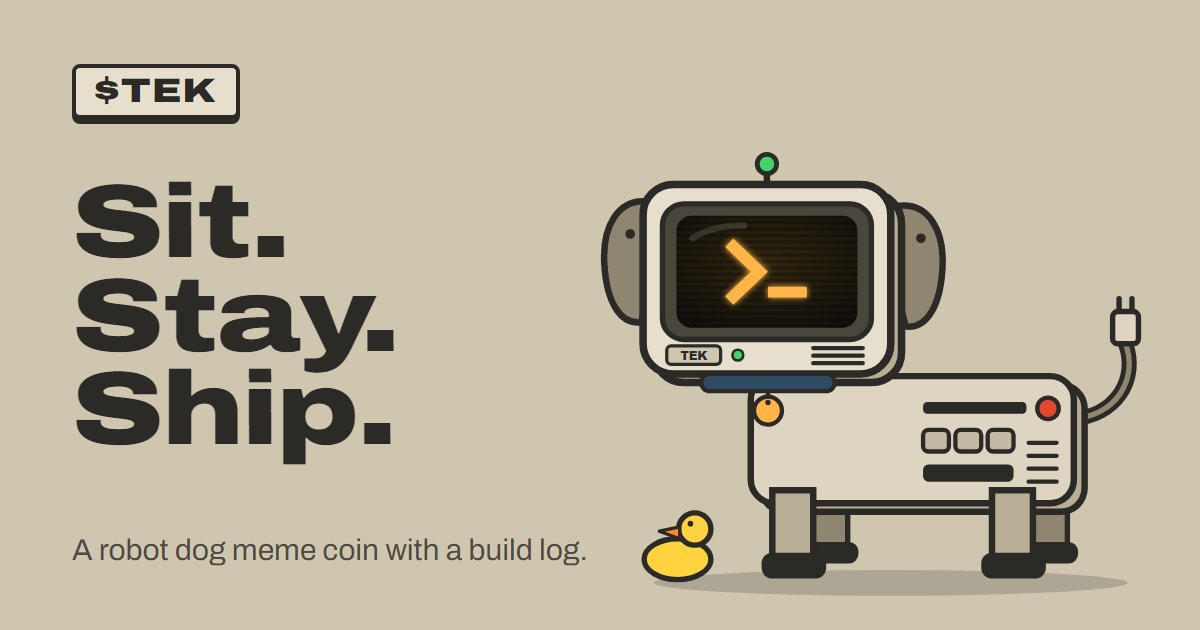
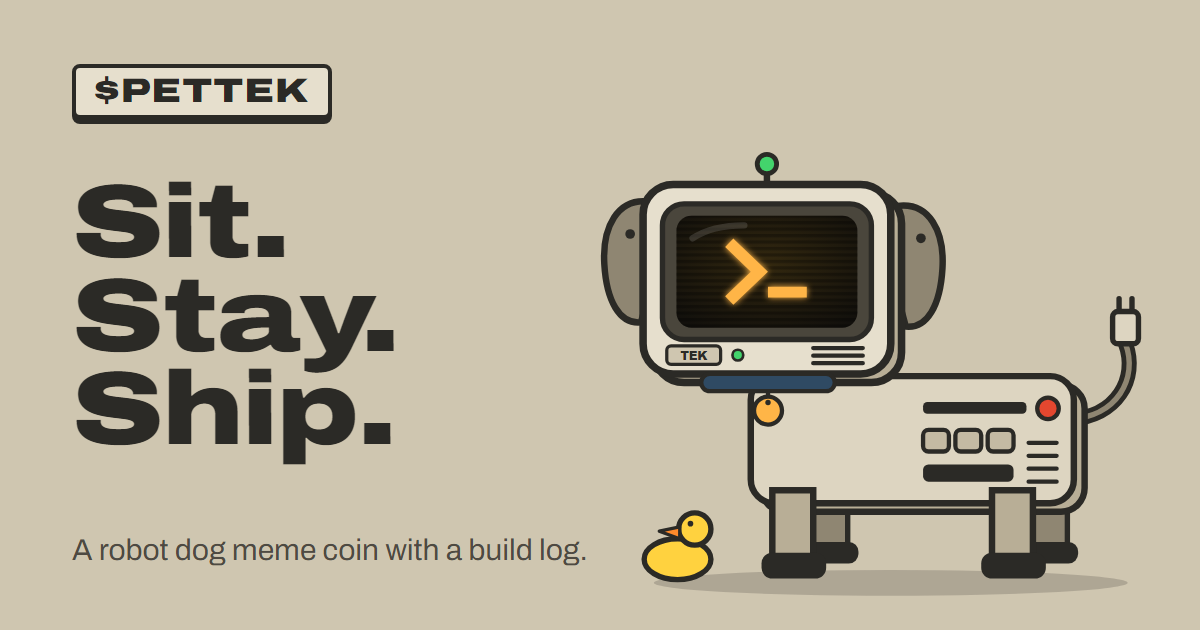
Rename the coin to PetTek ($PETTEK)
TEK stays as the robot dog's name; the coin, ticker and token copy use
PetTek / PETTEK. The link card is regenerated with the new ticker badge.

Changed region(s): [[0.0925, 0.0905, 0.2775, 0.2111]]

diff --git a/index.html b/index.html
@@ -3,9 +3,9 @@
 <head>
 <meta charset="utf-8">
 <meta name="viewport" content="width=device-width, initial-scale=1">
-<title>TEK — sit. stay. ship.</title>
-<meta name="description" content="TEK is a robot dog and a Solana meme coin with a build log. It fetches, it ships, and it isn't allowed on the rug.">
-<meta property="og:title" content="TEK — sit. stay. ship.">
+<title>PetTek — sit. stay. ship.</title>
+<meta name="description" content="PetTek ($PETTEK) is a Solana meme coin starring TEK, a robot dog with a build log. It fetches, it ships, and it isn't allowed on the rug.">
+<meta property="og:title" content="PetTek ($PETTEK) — sit. stay. ship.">
 <meta property="og:description" content="A robot dog meme coin with a build log. Make a TEK meme, run the checks, read the changelog.">
 <meta property="og:image" content="https://tek.gimmiepets.com/og-image.png">
 <meta property="og:url" content="https://tek.gimmiepets.com/">
@@ -238,7 +238,7 @@ p { margin: 0 0 1rem; max-width: var(--measure); }
 
 <header class="top">
   <div class="wrap">
-    <a class="badge" href="#top" aria-label="TEK home">TEK</a>
+    <a class="badge" href="#top" aria-label="PetTek home">PetTek</a>
     <nav aria-label="Sections">
       <a href="#lore">Lore</a>
       <a href="#screen">Make a meme</a>
@@ -256,7 +256,7 @@ p { margin: 0 0 1rem; max-width: var(--measure); }
   <div class="wrap">
     <div>
       <h1>Sit. Stay. Ship.</h1>
-      <p class="lede">TEK is a robot dog and a Solana meme coin with a build log. It fetches, it ships, and it isn't allowed on the rug.</p>
+      <p class="lede">TEK is a robot dog, and $PETTEK is its Solana meme coin with a build log. TEK fetches, ships, and isn't allowed on the rug.</p>
 
       <div class="slot">
         <span class="slot-label" id="ca-label">Contract address</span>
@@ -366,9 +366,9 @@ p { margin: 0 0 1rem; max-width: var(--measure); }
       <p class="sub">Everything about the token, on one tag. No presale, no team allocation, no tax.</p>
     </div>
     <div class="label" role="group" aria-label="Token details">
-      <div class="label-head"><strong>TEK-01</strong><span>Solana SPL token</span></div>
+      <div class="label-head"><strong>PetTek</strong><span>Solana SPL token</span></div>
       <dl>
-        <dt>Ticker</dt><dd data-ticker>$TEK</dd>
+        <dt>Ticker</dt><dd data-ticker>$PETTEK</dd>
         <dt>Supply</dt><dd>1,000,000,000</dd>
         <dt>Launch</dt><dd>Fair launch on pump.fun. Everyone buys from the same curve.</dd>
         <dt>Presale</dt><dd>None</dd>
@@ -402,12 +402,12 @@ p { margin: 0 0 1rem; max-width: var(--measure); }
 <section class="panel" id="buy">
   <div class="wrap">
     <h2>How to buy</h2>
-    <p class="sub">Four steps. Nobody from TEK will ever ask for your seed phrase or DM you first.</p>
+    <p class="sub">Four steps. Nobody from PetTek will ever ask for your seed phrase or DM you first.</p>
     <ol class="steps">
       <li><h3>Get a Solana wallet</h3><p>Phantom, Solflare or Backpack. Write the seed phrase on paper and never type it into a website.</p></li>
       <li><h3>Get some SOL</h3><p>Buy SOL on an exchange and send it to your wallet address.</p></li>
       <li><h3>Copy the contract</h3><p>Only from this page or the pinned post on TEK's X account. Look-alike coins will copy the name.</p></li>
-      <li><h3>Swap for TEK</h3><p>On pump.fun while the curve is filling, or on Jupiter after TEK graduates.</p></li>
+      <li><h3>Swap for PETTEK</h3><p>On pump.fun while the curve is filling, or on Jupiter after PETTEK graduates.</p></li>
     </ol>
   </div>
 </section>
@@ -417,9 +417,9 @@ p { margin: 0 0 1rem; max-width: var(--measure); }
 <footer class="foot">
   <div class="wrap">
     <div>
-      <span class="badge">TEK</span>
-      <p>TEK is a meme coin. It is not an investment, a share in a company, or a promise that anything will be worth anything. The changelog is a plan, not a guarantee. Nothing on this site is financial advice.</p>
-      <p>TEK's story starts in the GimmiePets stockroom, and GimmiePets sells pet gear. Buying TEK isn't a purchase from GimmiePets and gives you no rights in the shop.</p>
+      <span class="badge">PetTek</span>
+      <p>PetTek ($PETTEK) is a meme coin. It is not an investment, a share in a company, or a promise that anything will be worth anything. The changelog is a plan, not a guarantee. Nothing on this site is financial advice.</p>
+      <p>TEK's story starts in the GimmiePets stockroom, and GimmiePets sells pet gear. Buying PETTEK isn't a purchase from GimmiePets and gives you no rights in the shop.</p>
       <p>Admins never DM first. The only contract address is the one on this page and in the pinned post on X.</p>
     </div>
     <ul id="socials"></ul>
@@ -438,7 +438,7 @@ await new Promise((resolve) => {
   document.head.appendChild(s);
 });
 
-const CFG =Object.assign({ ticker: "$TEK", contract: "", launchISO: "", roadmap: [] }, window.TEK);
+const CFG = Object.assign({ ticker: "$PETTEK", contract: "", launchISO: "", roadmap: [] }, window.TEK);
 CFG.links = Object.assign({}, CFG.links);
 CFG.wallets = Object.assign({}, CFG.wallets);
 
@@ -446,7 +446,7 @@ const $ = (sel, root = document) => root.querySelector(sel);
 const BASE58 = /^[1-9A-HJ-NP-Za-km-z]{32,44}$/;
 const ca = (CFG.contract || "").trim();
 const live = BASE58.test(ca);
-if (ca && !live) console.warn("TEK config: contract does not look like a Solana address, so it is not shown.");
+if (ca && !live) console.warn("Site config: contract does not look like a Solana address, so it is not shown.");
 
 const links = {
   pumpfun: CFG.links.pumpfun || (live ? `https://pump.fun/coin/${ca}` : ""),
@@ -469,7 +469,7 @@ const copyCa = $("#copy-ca");
 if (live) {
   caEl.textContent = ca;
 } else {
-  caEl.textContent = "Posts here at launch. Any address you see before then isn't TEK.";
+  caEl.textContent = "Posts here at launch. Any address you see before then isn't PETTEK.";
   caEl.classList.add("pending");
   copyCa.disabled = true;
 }
@@ -540,8 +540,8 @@ setInterval(tickClock, 20000);
 
 /* ---------- checks ---------- */
 const CHECKS = [
-  { name: "Mint authority", text: "Nobody can print more TEK.", link: links.solscan, via: "Solscan" },
-  { name: "Freeze authority", text: "Nobody can freeze the TEK in your wallet.", link: links.rugcheck, via: "RugCheck" },
+  { name: "Mint authority", text: "Nobody can print more PETTEK.", link: links.solscan, via: "Solscan" },
+  { name: "Freeze authority", text: "Nobody can freeze the PETTEK in your wallet.", link: links.rugcheck, via: "RugCheck" },
   { name: "Liquidity", text: "Bonding curve on pump.fun, then a pool on PumpSwap that the protocol holds, not the dev.", link: links.dexscreener, via: "DexScreener" },
   { name: "Dev buy", text: "Size and transaction posted within minutes of launch.", link: links.dev, via: "Solscan" },
   { name: "Dev lock", text: "The dev buy is locked on a public schedule anyone can read.", link: links.lock, via: "the lock contract" },
@@ -570,7 +570,7 @@ $("#log").innerHTML = CFG.roadmap.map((r) => `
 /* ---------- dictionary ---------- */
 const DICT = [
   [">_ woof", "Good morning.", true],
-  ["The Pack", "Anyone holding TEK."],
+  ["The Pack", "Anyone holding PETTEK."],
   ["The Kennel", "The Telegram."],
   ["Handlers", "The mods. They never DM first."],
   ["fetch()", "Go get something done.", true],

diff --git a/config.js b/config.js
@@ -1,5 +1,5 @@
 /* =====================================================================
-   TEK SITE CONFIG: the only file you edit to run the site.
+   PETTEK SITE CONFIG: the only file you edit to run the site.
 
    Before launch: fill in links.x, links.telegram and launchISO.
    On launch day: from the tek-coin folder run
@@ -9,7 +9,7 @@
    Anything left empty shows a safe "posts at launch" state.
    ===================================================================== */
 window.TEK = {
-  ticker: "$TEK",
+  ticker: "$PETTEK",
   contract: "",                      // mint address; set on launch day
   launchISO: "",                     // e.g. "2026-10-01T16:00:00Z"; counts down before launch, uptime after
 
